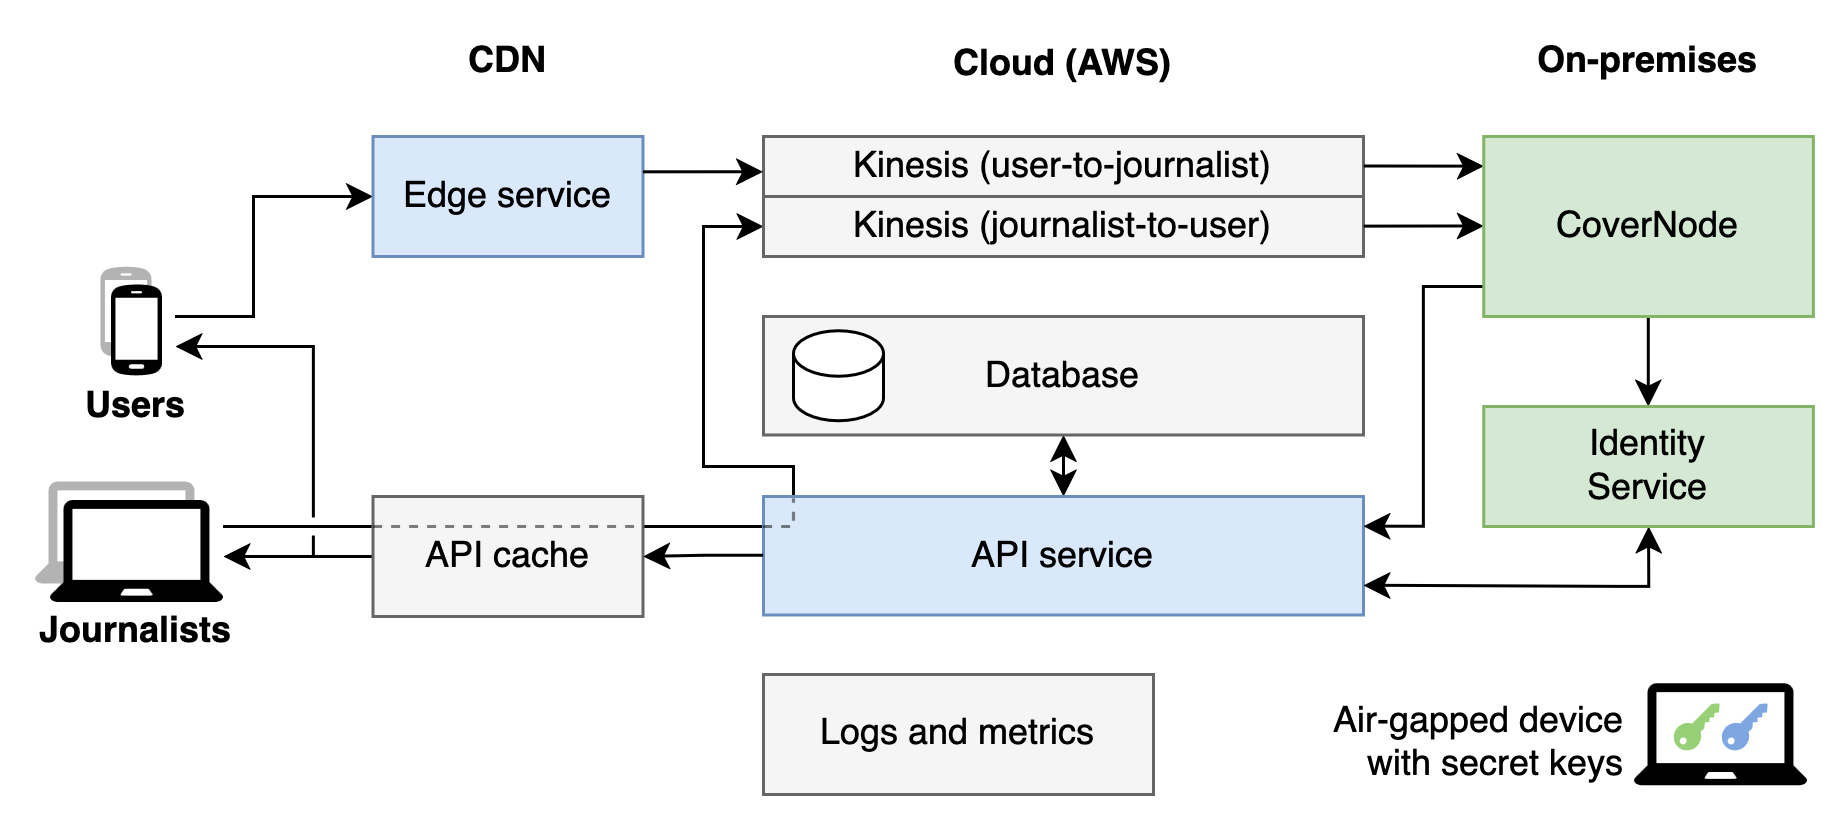
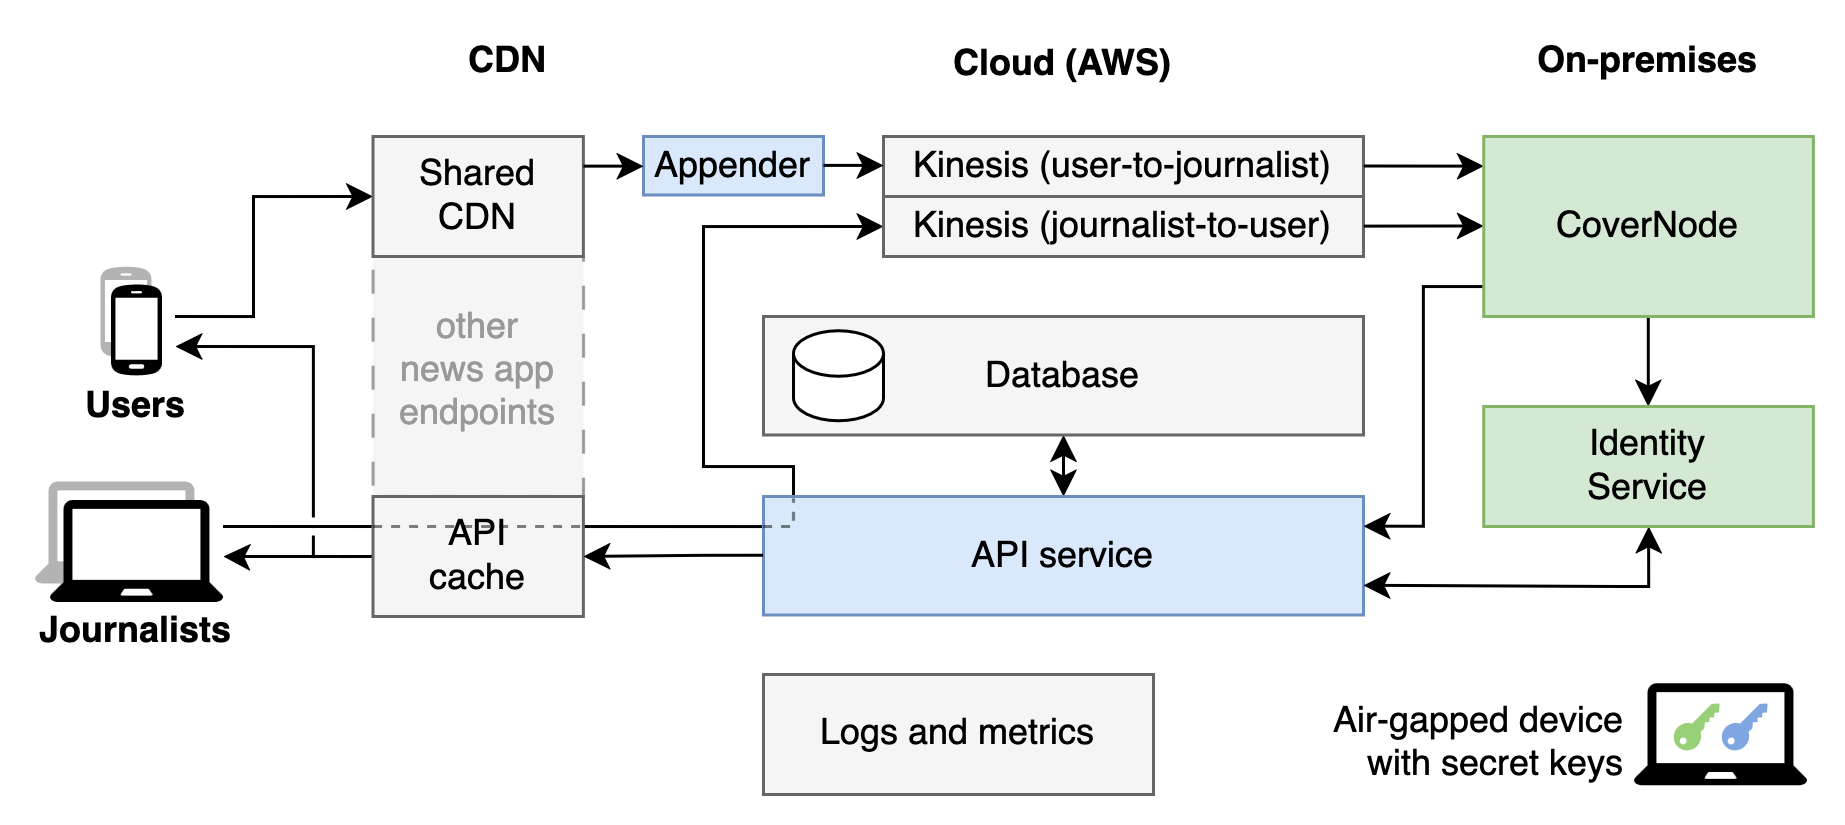
Project import generated by Copybara.
GitOrigin-RevId: f1f0c8036b8fa525e3e670a6ab90607ab349c28c

diff --git a/README.md b/README.md
@@ -20,7 +20,7 @@ The web services are either provided by third-parties (gray); written by us and 
 
 - In a CoverDrop implementation, at regular intervals, every copy of the news organisation's app exchanges small quantities of encrypted information with that news organisation's servers. These "cover messages" usually contain meaningless ciphertext.
 - When a source writes a message for a journalist, their message plus that source's automatically generated public key is encrypted using the public key of the journalist. That ciphertext is then swapped in for one of the routine cover messages. Both source and cover messages are encrypted in the same way, are the same length, and are sent at the same times. So from the perspective of a network observer they are indistinguishable.
-- These messages are channelled from the CDN through to secure servers at the news organisation. There, a first layer of encryption is removed to distinguish real messages from cover messages. The servers then routinely issue collections of messages in dead drops to applications used by journalists. The dead drops may contain a mixture of real messages and fake ones to pad each dead drop to a uniform size. If a journalist receives a dead drop containing a message encrypted with that journalist's public key, they will be able to remove the final layer of encryption and read the message.
+- These messages are appended to a Kinesis stream via a microservice behind the CDN. The secure servers at the news organisation then poll new messages from this Kinesis stream asynchronously. There, a first layer of encryption is removed to distinguish real messages from cover messages. The servers then routinely issue collections of messages in dead drops to applications used by journalists. The dead drops may contain a mixture of real messages and fake ones to pad each dead drop to a uniform size. If a journalist receives a dead drop containing a message encrypted with that journalist's public key, they will be able to remove the final layer of encryption and read the message.
 - Journalists can also reply to these messages, since they include the source's public key. Replies from journalists are handled in a similar process to those from sources to journalists.
 - The message storage vaults on users' apps are modified at the same times, are the same size, and are encrypted in the same way whether they contain real messages or not. Consequently, if a device used for secure communication was seized, so long as the decryption passphrase is not known, that device will show no evidence of whether or not it has been used for source/journalist communication.
 
